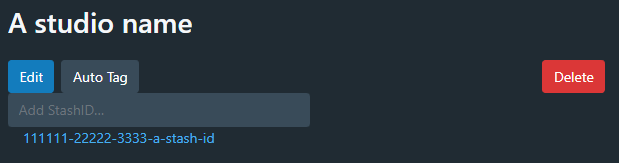
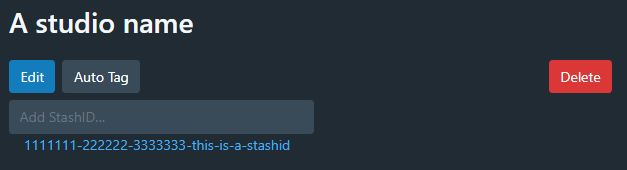
add padding

diff --git a/src/body/Stash StashID Input.user.js b/src/body/Stash StashID Input.user.js
@@ -152,7 +152,7 @@ fragment StudioData on Studio {
                 console.log('studio', studioId, el);
 
                 const stashIdInput = document.createElement('input');
-                stashIdInput.classList.add('query-text-field', 'bg-secondary', 'text-white', 'border-secondary', 'form-control');
+                stashIdInput.classList.add('query-text-field', 'bg-secondary', 'text-white', 'border-secondary', 'form-control', 'mt-2');
                 stashIdInput.setAttribute('id', 'update-stashids');
                 stashIdInput.setAttribute('placeholder', 'Add StashID…');
                 stashIdInput.addEventListener('change', () => {
